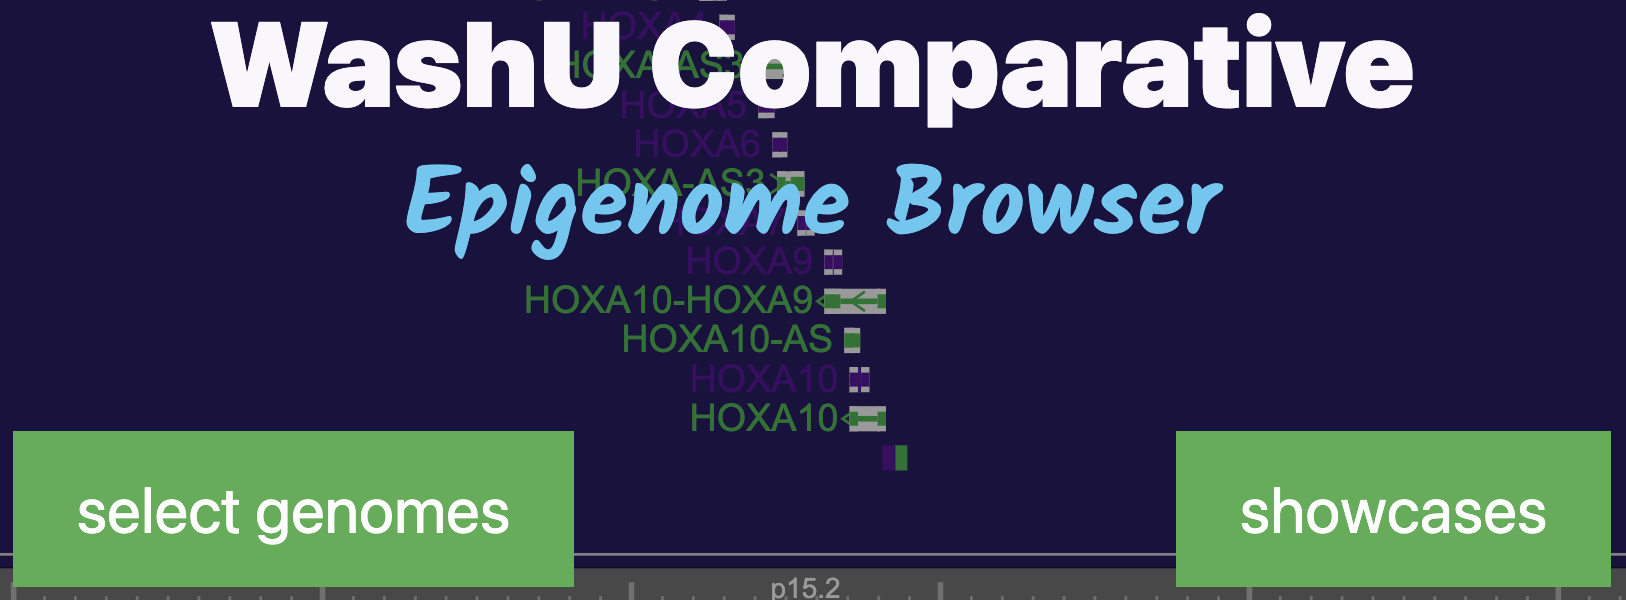
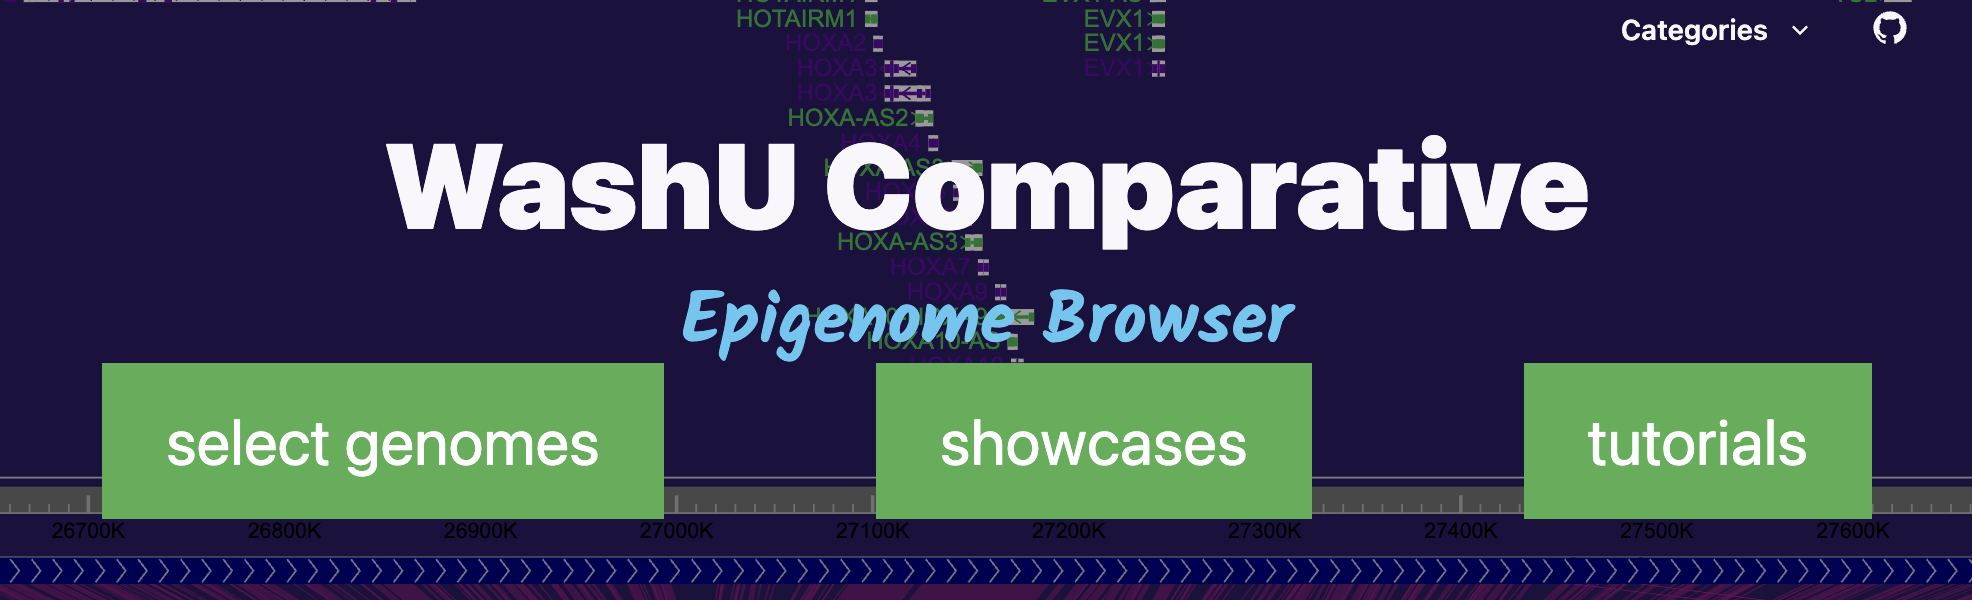
Improve the comparative Browser tutorial

diff --git a/docs/comparativeBrowser.rst b/docs/comparativeBrowser.rst
@@ -4,22 +4,23 @@ The Comparative Epigenome Browser
 Landing page
 ------------
 
-The WashU Comparative Epigenome Browser is available at http://comparativegateway.wustl.edu/. Users can easily select multiple available species using the interface.
+The WashU Comparative Epigenome Browser is a valuable resource for scientists studying comparative genomics and epigenomics. 
+The browser is available at http://comparativegateway.wustl.edu/ and allows users to easily select and compare multiple assemblies from different species.
 
-* Click "select genomes" on the page to start selecting species:
+* Click "select genomes" on the page to start selecting species. A few examples are available as "showcases", and video tutorials are available on the "tutorials" page:
 
 .. image:: _static/comparative/home.png
 
 Select Reference genome and secondary genomes
 ---------------------------------------------
 
-Species selection tool allows users to select multiple species.
+After clicking "select genomes", the species selection tool will become availabl. Users can now use it to select multiple species to compare with. 
 
 * The WashU Comparative Epigenome Browser requires a reference genome, which all the other genomes will be compared to. Available assemblies can be found in the dropdown menu:
 
 .. image:: _static/comparative/widget_1.png
 
-* After selecting the reference genome, users can select secondary genomes available to the reference genome. In the following example, hg38 is the reference genome, mm10 and panTro6 are selected as secondary genomes:
+* After selecting the reference genome, users can select secondary genomes available to the reference genome. In the following example, after selecting hg38 and the reference genome, both mm10 and panTro6 are selected as secondary genomes:
 
 .. image:: _static/comparative/widget_2.png
 
@@ -30,7 +31,8 @@ Species selection tool allows users to select multiple species.
 Organizing tracks on the WashU Epigenome Browser
 ------------------------------------------------
 
-With the new browser tab launched, it only contains basic annotation tracks of the reference genome and the selected genome-align tracks that connects to the secondary genomes. In the example, hg38-mm10 and hg38-panTro6 genome-align tracks are attached to the hg38 reference genome tracks:
+With the new browser tab launched, it only contains basic annotation tracks of the reference genome and the selected genome-align tracks that connects the syntenic regions from the reference genome to the secondary genomes.
+In the example, hg38-mm10 and hg38-panTro6 genome-align tracks are attached to the hg38 reference genome tracks:
 
 .. image:: _static/comparative/view_1.png
 
@@ -54,7 +56,7 @@ Add data tracks to the Comparative Epigenome Browser
 Add new tracks to the Comparative Epigenome Browser
 ~~~~~~~~~~~~~~~~~~~~~~~~~~~~~~~~~~~~~~~~~~~~~~~~~~~
 
-With genome-align track loaded, we can start loading data into it, and then we can start to do some analysis.
+With genome-align track loaded, we can start loading data tracks into it, and then we can start to perform some analysis.
 Here we have human genome hg38 as the reference genome, mouse mm10 as the secondary genome. We also have gene and repeat annotations mapped to both genomes:
 
 .. image:: _static/comparative/1_Start.png
@@ -62,24 +64,26 @@ Here we have human genome hg38 as the reference genome, mouse mm10 as the second
 Now we can start loading our data. We can load our data from the local file system, or we can load it from a URL.
 
 Let's start loading our data from the URL. Please click Tracks -> remote Tracks:
-We are using a humna Liver RNA-seq data from ENCODE (https://www.encodeproject.org/files/ENCFF861FSP/@@download/ENCFF861FSP.bigWig) in the demo.
+We are using a human Liver RNA-seq data from ENCODE (https://www.encodeproject.org/files/ENCFF861FSP/@@download/ENCFF861FSP.bigWig) in the demo.
+We will specify the "Track type" as "bigWig", enter the URL in the "Track file URL" entry, type "Human liver RNA-seq" into the "Track label" entry, and select "hg38" as the assembly to map to.
 
 .. image:: _static/comparative/2_AddRemoteTrack.png
 
 Next let's load our data from the local file system. Please click Tracks -> Local Tracks:
 The track file is downloaded from ENCODE (https://www.encodeproject.org/files/ENCFF798FMB/@@download/ENCFF798FMB.bigWig) and renamed MouseLiverRNA-seq.bigWig.
-We will specify the track type as bigWig, and the track is mapped to mm10. Click "Choose Files" to select the file.
+We will choose "bigWig" as the track file type, and choose "mm10" as the assembly it will map to. Click "Choose Files" to select the file.
 
 .. image:: _static/comparative/3_AddLocalTrack.png
 
-Now we have liver RNA-seq data from both human and mouse loaded at the bottom of the window:
+Now we have liver RNA-seq data from both human and mouse, mapped to hg38 and mm10 respectively, loaded at the bottom of the window ready to compare:
 
 .. image:: _static/comparative/4_allTracks.png
 
 Organizing all the tracks in the browser
 ~~~~~~~~~~~~~~~~~~~~~~~~~~~~~~~~~~~~~~~~
 
-To better compare the data, we can reorder the tracks. We like to group the tracks by species and separated by the genome-align track. Please click the "Reorder tool", and drag the human track on the top of the genome-align track:
+To better compare the data, we can reorder the tracks. Here we will group the tracks by species and have them separated by the genome-align track.
+Please click the "Reorder tool", and drag the "Human liver RNA-seq" track above the genome-align track:
 
 .. image:: _static/comparative/5_Reorder.png
 
@@ -94,25 +98,24 @@ The browser allows navigation in the reference genome using either gene name, SN
 
 .. image:: _static/comparative/7_Navigation.png
 
-The browser window should display SPP2 gene now:
+The browser window should display the entirety of SPP2 gene spanning the whole width of the browser window now:
 
 .. image:: _static/comparative/8_Spp2Gene.png
 
 Using tools to zoom in and out
 ~~~~~~~~~~~~~~~~~~~~~~~~~~~~~~
-
-We can use buttons on the top "tools" to zoom in and out. There are different buttons to zoom in or out with different resolution or pan left/right. To zoom out one time, click the "-1" button:
+We built a "tools" bar on the top of the browser window to allow users to perform some basic operations within the browser. There are different buttons to zoom in or out with different resolutions or pan left/right. To zoom out one time, click the "-1" button:
 
 .. image:: _static/comparative/9_Zoomout.png
 
-It is possible to zoom in using the "Zoom-in tool" button. Click it, and use the mouse to drag span a region to zoom in:
+It is possible to zoom into a selected region using the "Zoom-in tool" button. Click it, and use the mouse to drag span a region to zoom in:
 
 .. image:: _static/comparative/10_Zoomin.png
 
-To zoom in into the SPP2 gene's promoter region:
+To zoom in into the SPP2 gene's promoter region, drag the mouse to select the region covers the promoter and the first extron of SPP2:
 
 .. image:: _static/comparative/11_ZoominDrag.png
 
-Now the window is zoomed in to the SPP2 gene's promoter region:
+Now the browser displays the comparison between human SPP2 gene's promoter region with its orthologous Spp2 gene promoter in mouse, with gene annotation, repeat annotation and liver RNA-seq data tracks from both species mapped to the hg38 and mm10, respectively:
 
 .. image:: _static/comparative/12_Promoter.png
